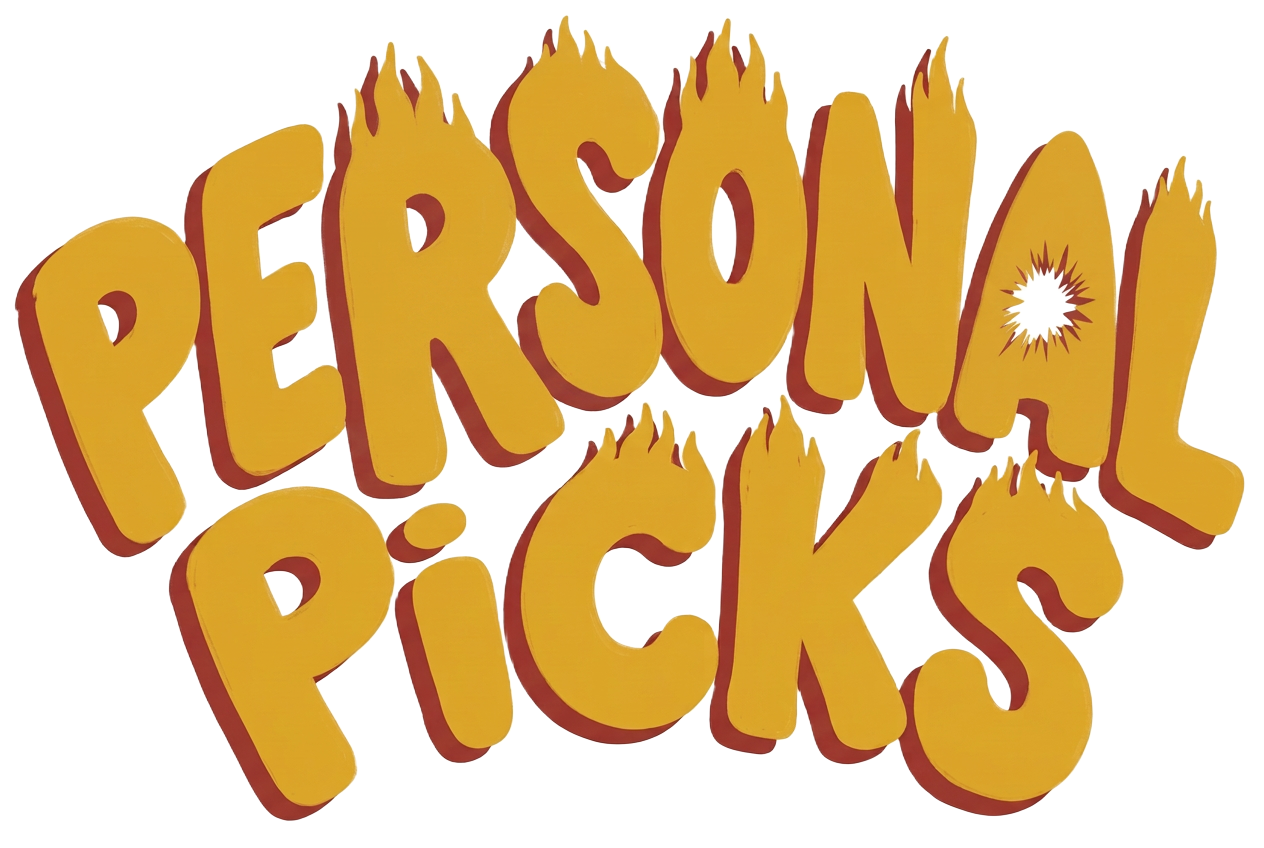
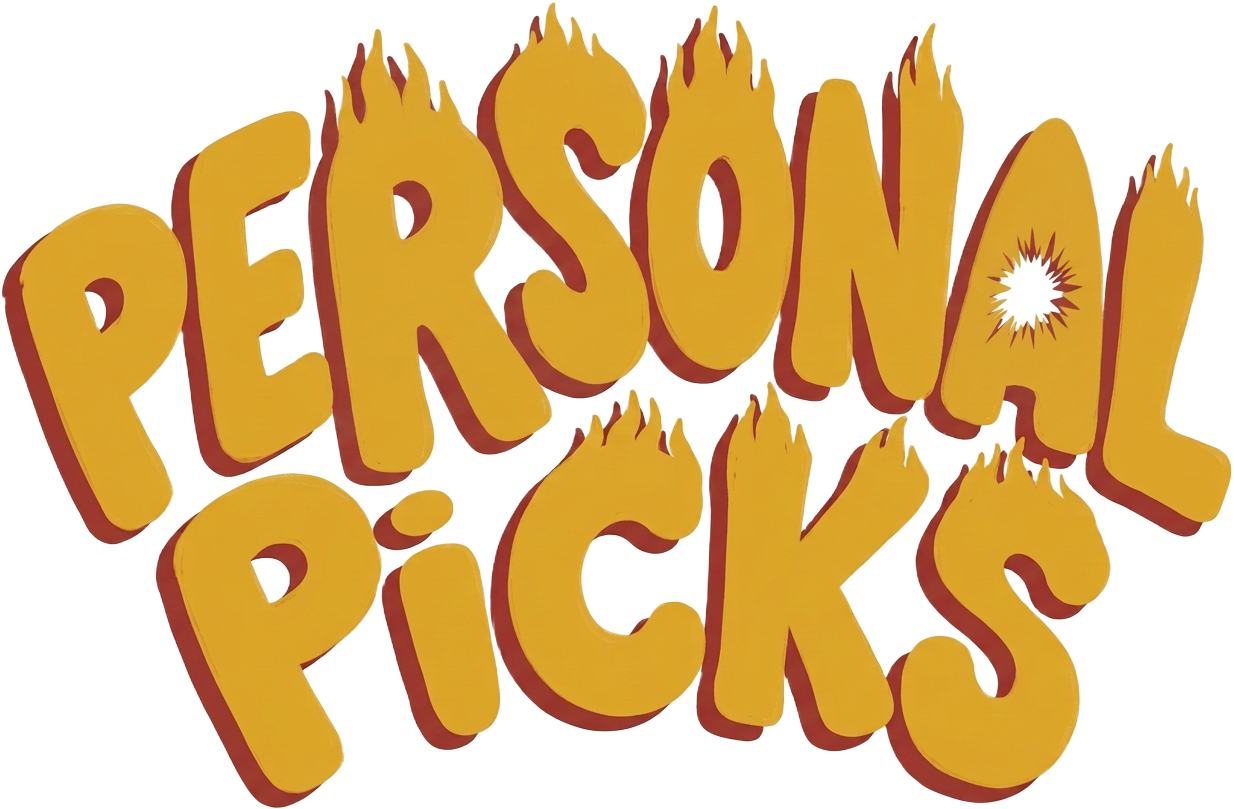
Changes

diff --git a/src/routes/options.tsx b/src/routes/options.tsx
@@ -6,6 +6,7 @@ import { useSession } from "@/state/session";
 import { usePersonalization } from "@/state/personalize";
 import { ListsLoading } from "@/components/ListsLoading";
 import topTipsArt from "@/assets/top-tips-wordart.png";
+import personalPicksArt from "@/assets/personal-picks-wordart.png";
 
 export const Route = createFileRoute("/options")({
   head: () => ({
@@ -28,7 +29,7 @@ function Options() {
   const waiting = !personal || personal.status === "running";
   const featured = [
     { id: "top10", name: "Top Tips", art: topTipsArt },
-    { id: "personalized", name: "Personal Picks", art: undefined as string | undefined },
+    { id: "personalized", name: "Personal Picks", art: personalPicksArt },
   ];
   const lists = disasters.map((d) => ({ id: d, name: d, tagline: `The full ${d.toLowerCase()} list` }));
   const featuredText = "font-display block py-6 text-center text-3xl leading-tight text-slate sm:text-4xl";
@@ -44,9 +45,9 @@ function Options() {
               <div className="mt-4 grid grid-cols-2 gap-3">
                 {featured.map((l) =>
                   waiting ? (
-                    <span key={l.id} className={`${featuredText} opacity-60`} aria-disabled="true">{l.art ? <img src={l.art} alt={l.name} width={1186} height={697} className="mx-auto h-auto w-full" /> : l.name}</span>
+                    <span key={l.id} className={`${featuredText} opacity-60`} aria-disabled="true">{l.art ? <img src={l.art} alt={l.name} className="mx-auto h-auto w-full" /> : l.name}</span>
                   ) : (
-                    <Link key={l.id} to="/checklist" search={{ list: l.id }} className={`${featuredText} hover:text-ink motion-safe:transition-transform hover:scale-105`}>{l.art ? <img src={l.art} alt={l.name} width={1186} height={697} className="mx-auto h-auto w-full" /> : l.name}</Link>
+                    <Link key={l.id} to="/checklist" search={{ list: l.id }} className={`${featuredText} hover:text-ink motion-safe:transition-transform hover:scale-105`}>{l.art ? <img src={l.art} alt={l.name} className="mx-auto h-auto w-full" /> : l.name}</Link>
                   ),
                 )}
               </div>
